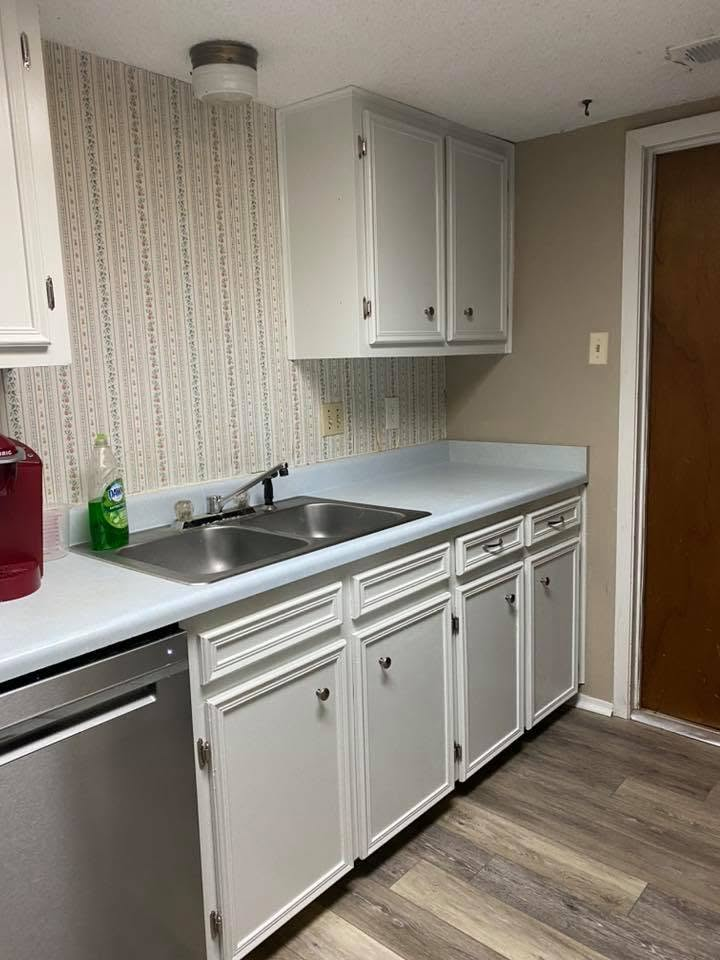
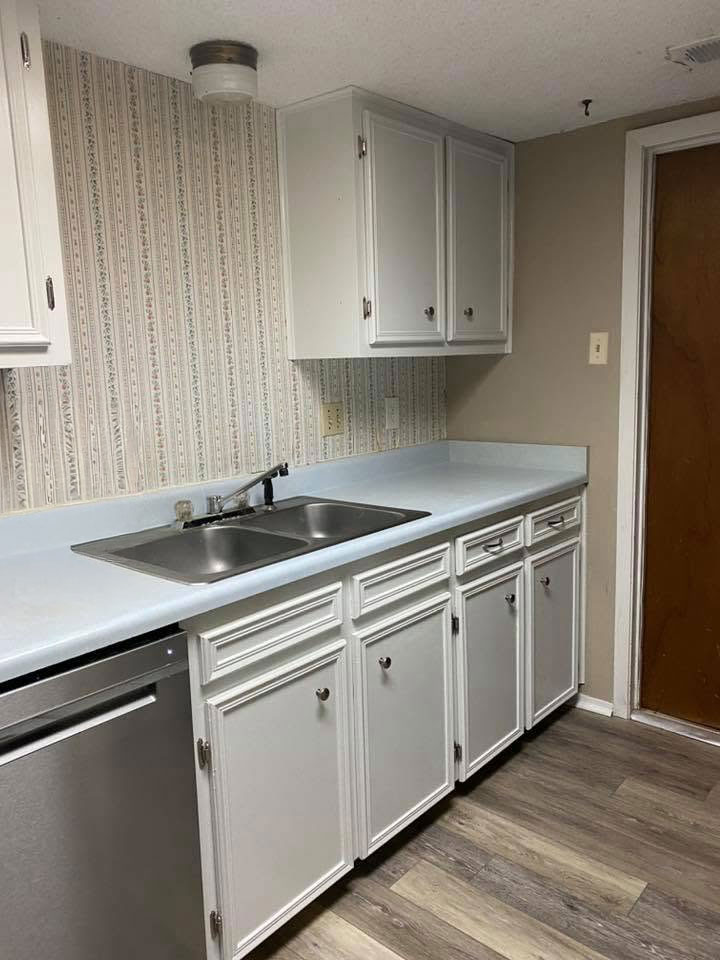
Modal: mobile-first sheet layout, swipe gestures, aligned Before/After badges

Changed region(s): [[0.0, 0.4062, 0.2139, 0.625]]

diff --git a/app/projects/page.module.css b/app/projects/page.module.css
@@ -669,34 +669,35 @@
 
 .beforeBadge {
   position: absolute;
-  top: 0.4rem;
-  left: 0.4rem;
-  background: rgba(0,0,0,0.7);
+  top: 0.6rem;
+  left: 0.6rem;
+  background: rgba(0,0,0,0.72);
   border: 1px solid rgba(255,255,255,0.3);
-  color: rgba(255,255,255,0.85);
+  color: rgba(255,255,255,0.9);
   font-family: var(--font-ui);
-  font-size: 0.55rem;
+  font-size: 0.6rem;
   font-weight: 700;
   letter-spacing: 0.12em;
   text-transform: uppercase;
-  padding: 0.2rem 0.4rem;
-  border-radius: 3px;
+  padding: 0.25rem 0.55rem;
+  border-radius: 4px;
   z-index: 2;
+  pointer-events: none;
 }
 
 .afterBadge {
   position: absolute;
-  bottom: 0.4rem;
-  left: 0.4rem;
+  top: 0.6rem;
+  left: 0.6rem;
   background: var(--gold);
   color: var(--black);
   font-family: var(--font-ui);
-  font-size: 0.5rem;
+  font-size: 0.6rem;
   font-weight: 800;
   letter-spacing: 0.12em;
   text-transform: uppercase;
-  padding: 0.2rem 0.5rem;
-  border-radius: 3px;
+  padding: 0.25rem 0.55rem;
+  border-radius: 4px;
   z-index: 2;
   pointer-events: none;
 }
@@ -784,16 +785,39 @@
 
 /* ── Responsive ──────────────────────────────────────────── */
 @media (max-width: 1024px) {
-  .projectGrid  { grid-template-columns: repeat(2, 1fr); }
-  .modalGrid    { grid-template-columns: repeat(3, 1fr); }
+  .projectGrid { grid-template-columns: repeat(2, 1fr); }
 }
 
-@media (max-width: 640px) {
-  .projectGrid  { grid-template-columns: 1fr; }
-  .modalGrid    { grid-template-columns: repeat(2, 1fr); }
-  .modalInner   { padding: 2rem 1.25rem; }
+@media (max-width: 768px) {
+  /* Modal goes full-screen on mobile */
+  .modal        { padding: 0; align-items: flex-end; }
+  .modalInner   {
+    border-radius: var(--radius-md) var(--radius-md) 0 0;
+    padding: 1.5rem 1rem 1rem;
+    max-width: 100%;
+    max-height: 95dvh;
+    overflow-y: auto;
+  }
+  .modalTitle   { font-size: 1.25rem; }
+  .modalDesc    { font-size: 0.82rem; }
+  .modalHeader  { margin-bottom: 1rem; }
+
+  /* Carousel */
+  .carouselSlide { max-height: 260px; }
+  .carouselNav   { width: 36px; height: 36px; font-size: 1.2rem; }
+  .carouselPrev  { left: 0.4rem; }
+  .carouselNext  { right: 0.4rem; }
+
+  /* Thumbnail strip — slightly smaller on mobile */
+  .carouselThumb { flex: 0 0 64px; height: 48px; }
+
+  /* Lightbox */
   .lightboxImg  { width: 98vw; height: 70vh; }
   .lightboxNav  { width: 40px; height: 40px; }
   .lightboxPrev { left: 0.5rem; }
   .lightboxNext { right: 0.5rem; }
+}
+
+@media (max-width: 480px) {
+  .projectGrid  { grid-template-columns: 1fr; }
 }

diff --git a/app/projects/page.tsx b/app/projects/page.tsx
@@ -76,12 +76,23 @@ export default function ProjectsPage() {
   }, [handleKey]);
 
   // Reset carousel and auto-advance when a project opens
+  const [touchStartX, setTouchStartX] = useState<number | null>(null);
   useEffect(() => { setModalSlide(0); }, [activeProject]);
   useEffect(() => {
     if (!activeProject || activeProject.images.length <= 1) return;
     const t = setInterval(() => setModalSlide((i) => (i + 1) % activeProject.images.length), 4000);
     return () => clearInterval(t);
   }, [activeProject]);
+
+  const swipeNext = () => activeProject && setModalSlide((i) => Math.min(i + 1, activeProject.images.length - 1));
+  const swipePrev = () => setModalSlide((i) => Math.max(i - 1, 0));
+  const handleTouchStart = (e: React.TouchEvent) => setTouchStartX(e.touches[0].clientX);
+  const handleTouchEnd   = (e: React.TouchEvent) => {
+    if (touchStartX === null) return;
+    const dx = touchStartX - e.changedTouches[0].clientX;
+    if (Math.abs(dx) > 40) dx > 0 ? swipeNext() : swipePrev();
+    setTouchStartX(null);
+  };
 
   // All projects flattened for "all" view
   const allProjects = portfolio?.categories.flatMap((c) => c.projects) ?? [];
@@ -245,10 +256,12 @@ export default function ProjectsPage() {
 
             {/* ── Carousel ── */}
             <div className={styles.modalCarousel}>
-              {/* Main slide */}
+              {/* Main slide — swipeable on mobile */}
               <div
                 className={styles.carouselSlide}
                 onClick={() => setLightbox({ project: activeProject, imgIndex: modalSlide })}
+                onTouchStart={handleTouchStart}
+                onTouchEnd={handleTouchEnd}
                 role="button"
                 tabIndex={0}
                 aria-label="Expand photo"